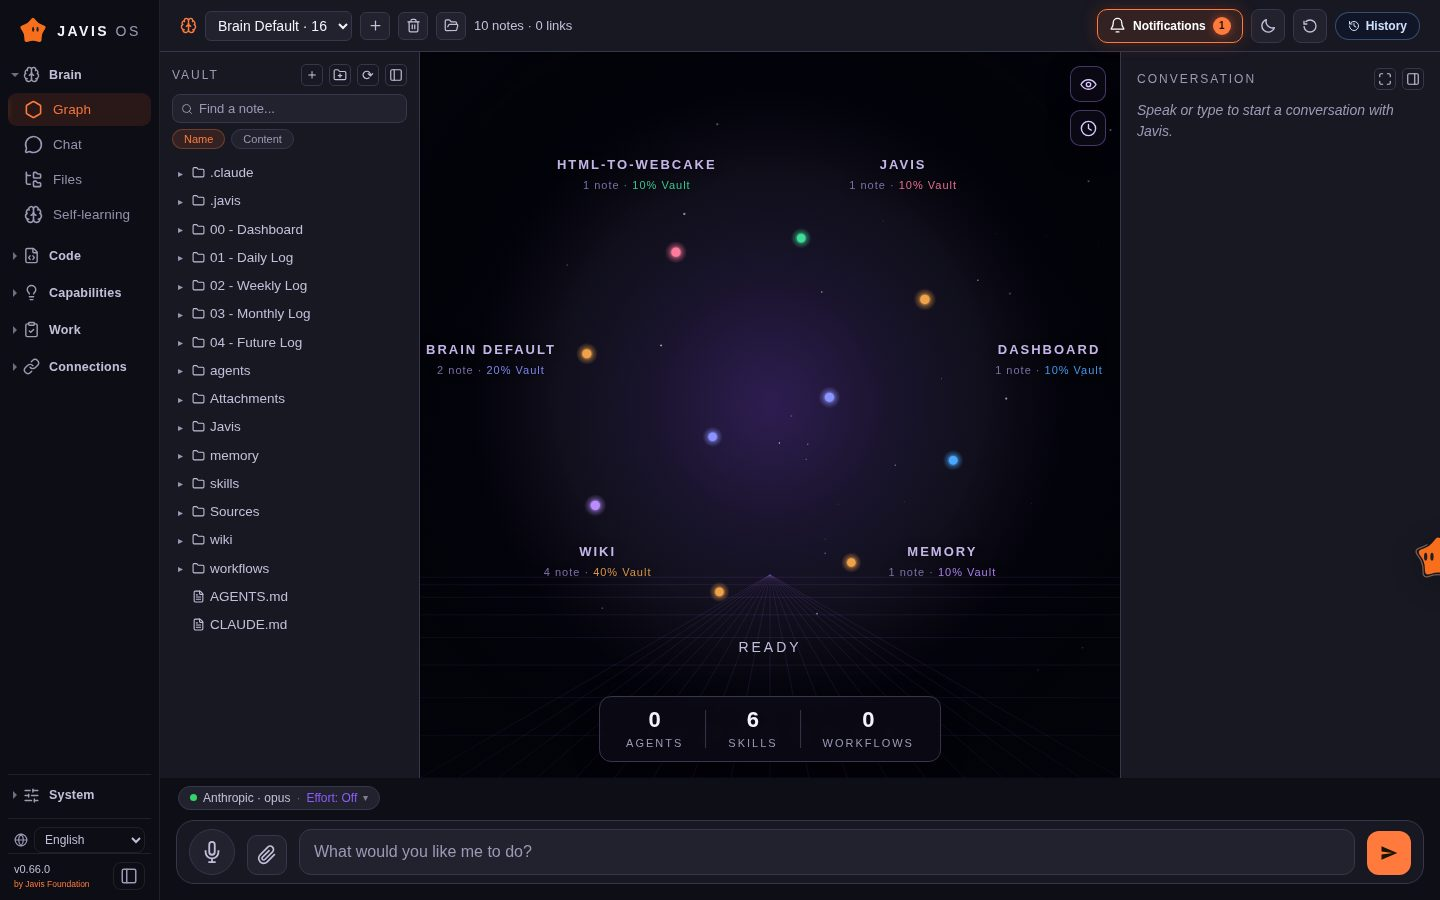
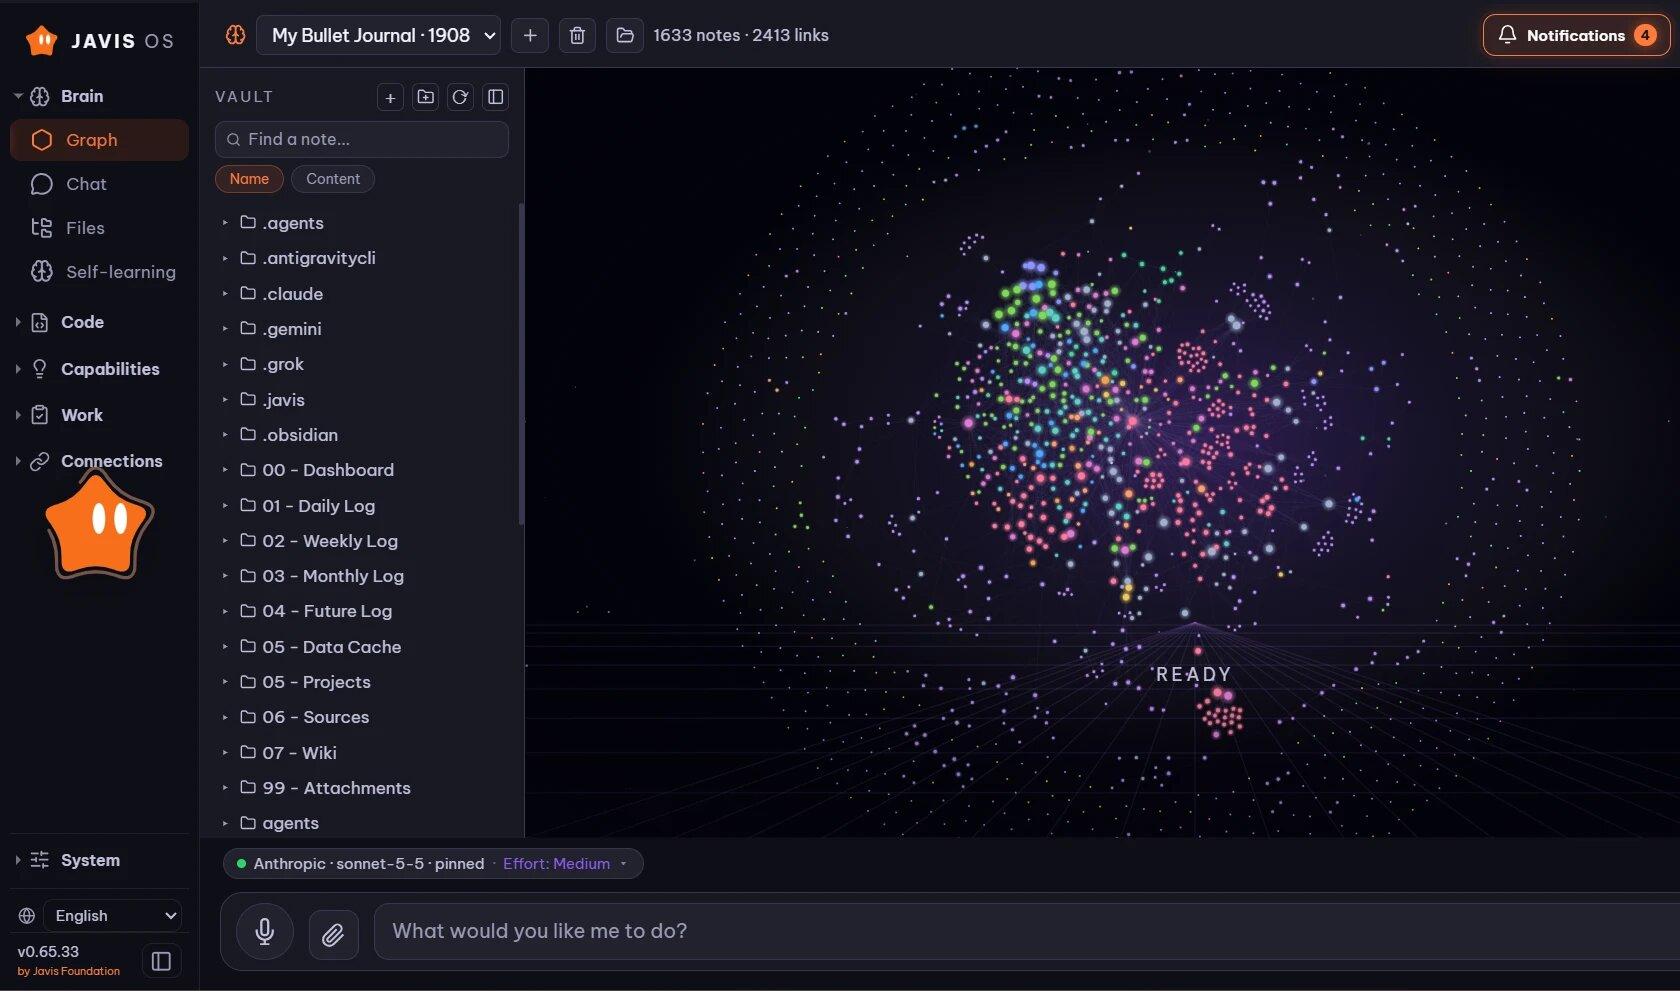
0.68.1: README and link preview show a real brain graph (#539)
Claude-Session: https://claude.ai/code/session_016VMw1Kbfw2oLjVBJkeFXno

diff --git a/CHANGELOG.md b/CHANGELOG.md
@@ -6,6 +6,10 @@ Lịch sử phiên bản Javis OS. Bản mới nhất ở trên cùng. Xem ngay 
 
 Định dạng: mỗi phiên bản là một khối `## [x.y.z] - ngày`, bên dưới nhóm thay đổi theo `### Thêm mới / Sửa lỗi / Cải thiện / Bảo mật`.
 
+## [0.68.1] - 2026-10-03
+### Cải thiện
+- **Ảnh giới thiệu trên GitHub dùng một brain thật.** Ảnh đầu README và ảnh xem trước khi chia sẻ link giờ là graph của một brain hơn 1.600 ghi chú, thay cho brain trống trước đây.
+
 ## [0.68.0] - 2026-10-03
 ### Cải thiện
 - **Trang Cập nhật có bản tiếng Anh.** Thiết bị đọc tiếng Anh thấy nhật ký phiên bản bằng tiếng Anh từ bản 0.66.0 trở đi; các bản cũ hơn vẫn hiện tiếng Việt.

diff --git a/CHANGELOG.en.md b/CHANGELOG.en.md
@@ -8,6 +8,10 @@ English entries start at 0.66.0. Every earlier release is described in the Vietn
 
 Format: each release is a `## [x.y.z] - date` block, with changes grouped under `### Added / Fixed / Improved / Security`.
 
+## [0.68.1] - 2026-10-03
+### Improved
+- **The GitHub page shows a real brain.** The screenshot at the top of the README and the link preview image now show the graph of a brain with more than 1,600 notes, instead of an empty one.
+
 ## [0.68.0] - 2026-10-03
 ### Improved
 - **The Updates page speaks English.** Devices reading in English see the release notes in English from 0.66.0 on; older releases still show in Vietnamese.

diff --git a/README.md b/README.md
@@ -21,7 +21,7 @@ Run it on your laptop or a small VPS. Talk to it by voice. Plug in Claude, ChatG
 
 <br>
 
-<img src="docs/assets/screenshots/graph.jpg" alt="The Javis OS dashboard: brain file tree on the left, the knowledge graph in the middle, the conversation panel on the right and the chat bar at the bottom" width="100%">
+<img src="docs/assets/screenshots/graph.jpg" alt="The Javis OS dashboard on a real brain of 1,633 notes and 2,413 links: the file tree on the left, the knowledge graph in the middle and the chat bar at the bottom" width="100%">
 
 </div>
 
